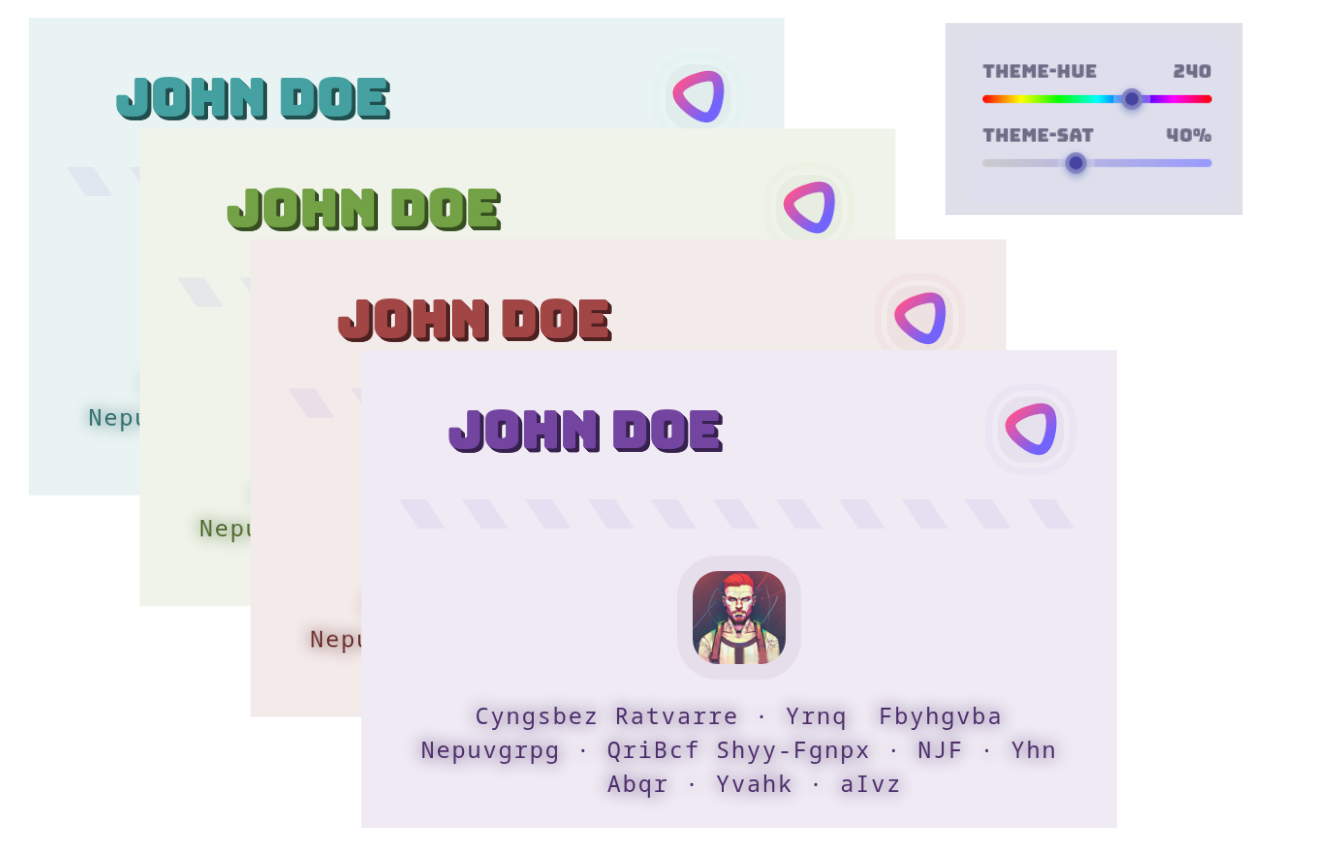
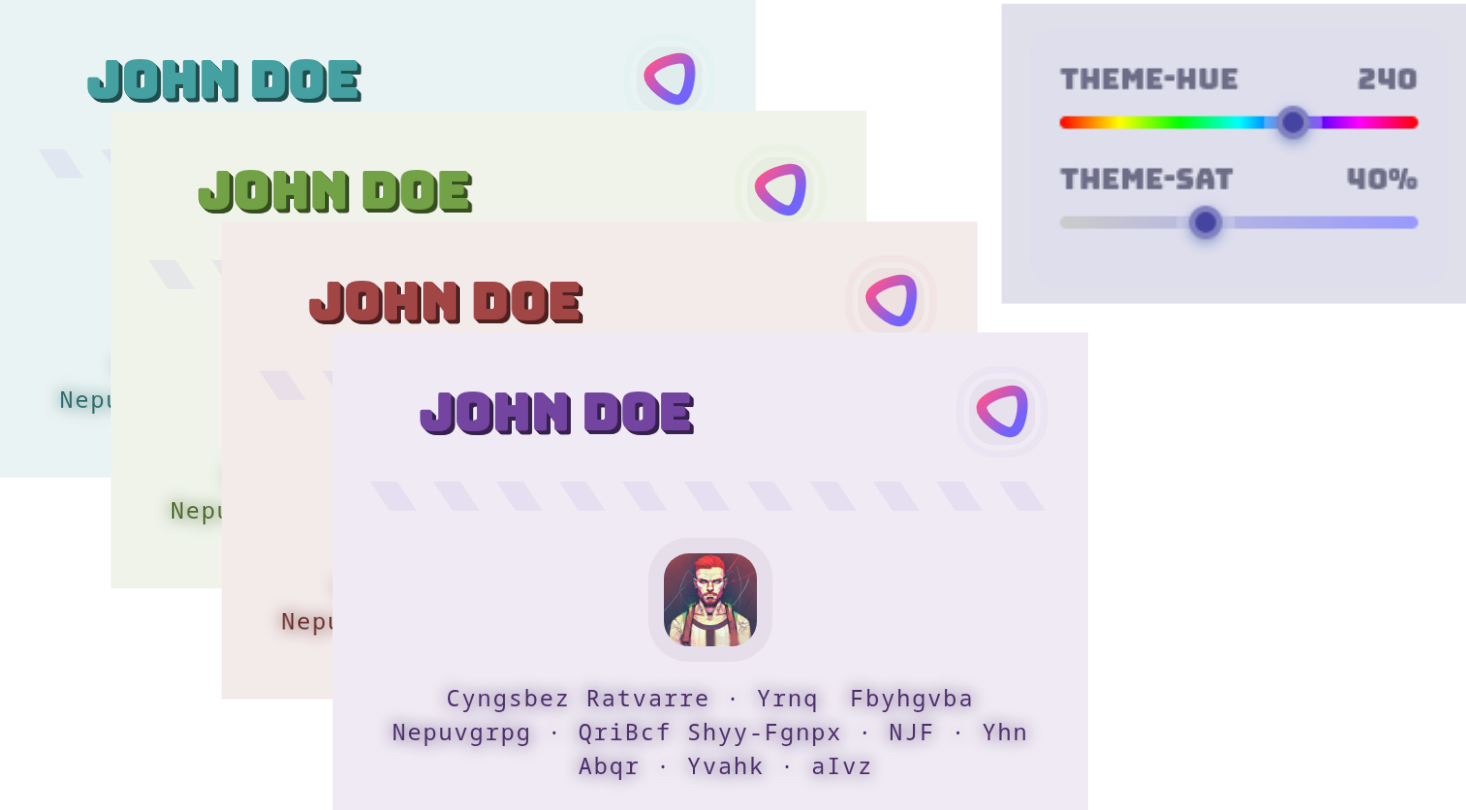
0907_1252

diff --git a/README.md b/README.md
@@ -1,6 +1,6 @@
 <div align="center">
   <img height="28" src="https://raw.githubusercontent.com/metaory/jsonresume-theme-legacy/master/src/assets/logo.svg">
-  <h1> 𐑃⌃⌄𐐹 </h1>
+  <h1>⌞⌃⌄⌝</h1>
   <i><small>jsonresume theme v7.x</small></i><br>
   <a href="https://metaory.github.io/jsonresume-theme-legacy">demo</a> |
   <a href="sample.pdf">sample.pdf</a>
